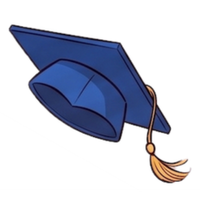
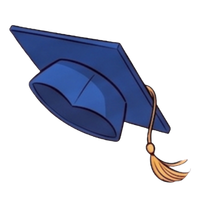
style: refine supernatural opening scene

diff --git a/style.css b/style.css
@@ -3,13 +3,13 @@
 html { scroll-behavior: smooth; }
 body { margin: 0; color: #1d1d1f; background: #fff; font-family: -apple-system, BlinkMacSystemFont, "SF Pro Display", "SF Pro Text", "Helvetica Neue", Arial, sans-serif; }
 main { overflow: clip; }
-.intro { min-height: 100svh; display: block; position: relative; padding: 30px 24px; color: #f5f5f7; background: radial-gradient(circle at 50% 85%, #262628 0, #000 47%); text-align: left; overflow: hidden; }
-.grain { position: absolute; inset: 0; opacity: .22; background: radial-gradient(ellipse at 50% 105%, transparent 0 28%, #000 72%); }
+.intro { min-height: 100svh; display: block; position: relative; padding: 30px 24px; color: #f5f5f7; background: radial-gradient(ellipse at 50% 106%, #8d101c 0%, #38050c 27%, #100104 54%, #000 78%); text-align: left; overflow: hidden; }
+.intro::before { content: ""; position: absolute; z-index: 0; inset: 0; pointer-events: none; background: repeating-linear-gradient(0deg, rgba(255,44,44,.045) 0 1px, transparent 1px 5px), radial-gradient(ellipse at 25% 72%, rgba(212,19,39,.32), transparent 40%), radial-gradient(ellipse at 80% 48%, rgba(129,8,21,.22), transparent 37%); mix-blend-mode: screen; }.grain { position: absolute; inset: 0; opacity: .32; background: radial-gradient(ellipse at 50% 105%, transparent 0 25%, #000 75%); }
 .eyebrow { margin: 0 0 14px; color: #86868b; font-size: 17px; font-weight: 600; letter-spacing: -.01em; }
 h1, h2 { margin: 0; font-family: inherit; font-weight: 700; letter-spacing: -.055em; }
-h1 { font-size: clamp(2.9rem, 12vw, 6.5rem); line-height: .96; }
-.opening-artwork { position: absolute; z-index: 1; left: 50%; bottom: clamp(122px, 23vh, 210px); width: min(112vw, 1080px); transform: translateX(-50%); pointer-events: none; }.opening-art { display: block; width: 100%; height: auto; filter: drop-shadow(0 18px 28px rgba(0,0,0,.42)); }.hat-orbit { position: absolute; left: 90%; top: 13%; width: clamp(48px, 10vw, 112px); aspect-ratio: 1; }.hat-orbit img { display: block; width: 100%; height: 100%; object-fit: contain; animation: hat-orbit 11s linear infinite; }
-.intro-hint { display: grid; place-items: center; position: absolute; bottom: 20px; left: 63%; width: 234px; height: 234px; padding: 0; border: 0; border-radius: 0; background: transparent; box-shadow: none; cursor: pointer; transform: translateX(-50%); }.intro-hint img { display: block; width: 100%; height: 100%; object-fit: contain; animation: peek 1.6s steps(1, end) infinite; }
+h1 { position: relative; z-index: 2; font-size: clamp(2.9rem, 12vw, 6.5rem); line-height: .96; }
+.opening-artwork { position: absolute; z-index: 1; left: 50%; bottom: clamp(190px, 34vh, 300px); width: min(145vw, 1220px); transform: translateX(-50%); pointer-events: none; }.opening-art { display: block; width: 100%; height: auto; filter: drop-shadow(0 22px 32px rgba(0,0,0,.6)); }.hat-orbit { position: absolute; z-index: 2; left: 92%; top: -5%; width: clamp(54px, 12vw, 130px); aspect-ratio: 1; }.hat-orbit img { display: block; width: 100%; height: 100%; object-fit: contain; will-change: transform; animation: hat-orbit 11s linear infinite; }
+.intro-hint { display: grid; place-items: center; position: absolute; z-index: 3; bottom: 20px; left: 63%; width: 234px; height: 234px; padding: 0; border: 0; border-radius: 0; background: transparent; box-shadow: none; cursor: pointer; transform: translateX(-50%); }.intro-hint img { display: block; width: 100%; height: 100%; object-fit: contain; animation: peek 1.6s steps(1, end) infinite; }
 .celebration { min-height: max(760px, 100svh); display: grid; place-items: center; position: relative; padding: 70px 22px; background: #f5f5f7; text-align: center; }
 .message { position: relative; z-index: 2; max-width: 680px; opacity: 0; }
 h2 { color: #1d1d1f; font-size: clamp(2.45rem, 8.5vw, 5.2rem); line-height: .91; text-transform: uppercase; }h2 .graduating { display: inline-block; color: transparent; font-size: .87em; white-space: nowrap; background: linear-gradient(90deg, #0071e3 0%, #2997ff 48%, #7dc7ff 100%); -webkit-background-clip: text; background-clip: text; }.exclamation { display: inline-block; width: 1em; height: 1em; margin: 0 -.13em 0 -.08em; object-fit: contain; vertical-align: -.12em; }.party { display: inline-block; position: relative; color: initial; font-family: sans-serif; font-size: .77em; letter-spacing: 0; transform-origin: 50% 80%; will-change: transform; animation: party-squish 3.2s ease-in-out infinite; }.party::after { content: ""; position: absolute; top: 43%; left: 58%; width: 4px; height: 4px; border-radius: 1px; background: #ff3b30; box-shadow: 12px -13px #ffcc00, 20px 5px #34c759, 7px 18px #0a84ff, -12px 13px #af52de, -19px -7px #ff9f0a, 0 -22px #ff375f; opacity: 0; will-change: transform, opacity; animation: confetti-pop 3.2s ease-out infinite; }
